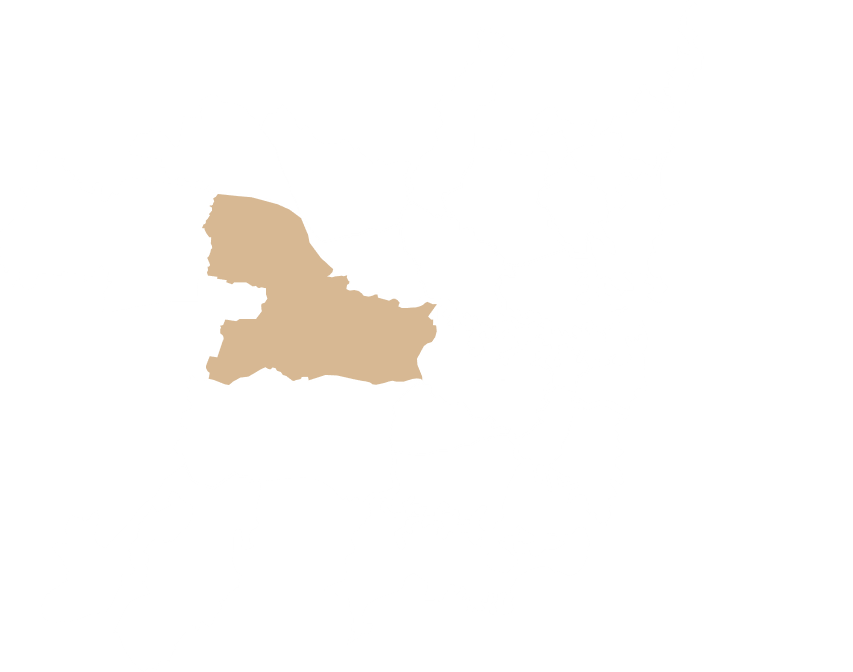
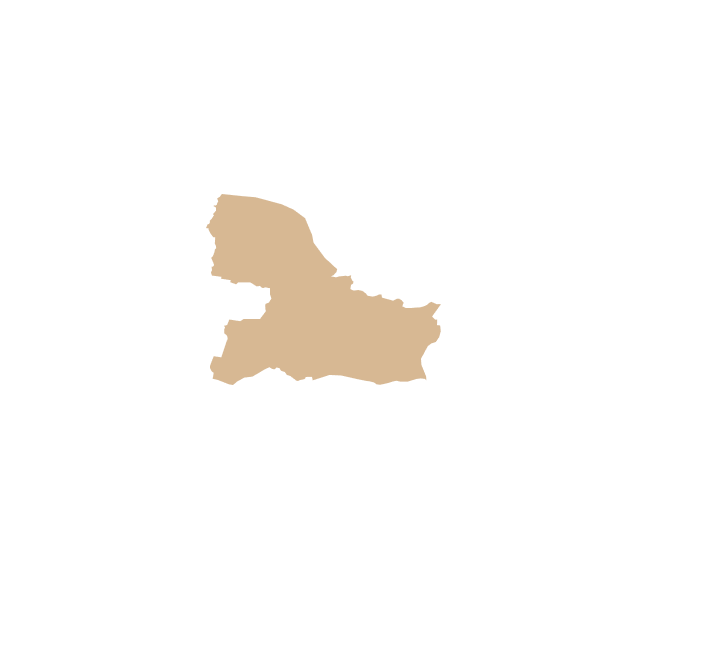
Changes

Changed region(s): [[0.2175, 0.2812, 0.6215, 0.5938]]

diff --git a/src/components/sections/homepage/GalaBanner.jsx b/src/components/sections/homepage/GalaBanner.jsx
@@ -1,0 +1,63 @@
+import { motion } from "framer-motion"
+import { Link } from "react-router-dom"
+
+function Quatrefoil({ size = 12 }) {
+  return (
+    <svg
+      width={size}
+      height={size}
+      viewBox="0 0 100 100"
+      fill="currentColor"
+      className="flex-shrink-0 opacity-90"
+      aria-hidden="true"
+    >
+      <circle cx="50" cy="22" r="25" />
+      <circle cx="50" cy="78" r="25" />
+      <circle cx="22" cy="50" r="25" />
+      <circle cx="78" cy="50" r="25" />
+      <rect x="22" y="22" width="56" height="56" rx="4" />
+    </svg>
+  )
+}
+
+const SEGMENTS = ["MIAA Gala Dinner", "25 July 2026", "Book your tickets here"]
+
+// One repeating unit: each segment preceded by a quatrefoil separator
+function MarqueeUnit() {
+  return (
+    <div className="flex items-center" aria-hidden="true">
+      {SEGMENTS.map((text) => (
+        <span key={text} className="flex items-center">
+          <span className="mx-5 md:mx-7 3xl:mx-9">
+            <Quatrefoil />
+          </span>
+          <span className="font-aeonik text-[24px] md:text-[40px] font-medium tracking-wide whitespace-nowrap">
+            {text}
+          </span>
+        </span>
+      ))}
+    </div>
+  )
+}
+
+export default function GalaBanner() {
+  return (
+    <Link
+      to="/gala-dinner"
+      aria-label="MIAA Gala Dinner, 25 July 2026 — book your tickets"
+      style={{ backgroundColor: "#4656cd" }}
+      className="group block w-full overflow-hidden text-white transition-[filter] duration-200 hover:brightness-110"
+    >
+      <motion.div
+        className="flex w-max items-center py-3 md:py-3.5 3xl:py-4"
+        animate={{ x: ["0%", "-50%"] }}
+        transition={{ duration: 58, ease: "linear", repeat: Infinity }}
+      >
+        {/* Two identical halves so the loop wraps seamlessly */}
+        {Array.from({ length: 8 }).map((_, i) => (
+          <MarqueeUnit key={i} />
+        ))}
+      </motion.div>
+    </Link>
+  )
+}

diff --git a/src/components/sections/about/WesternSydneySection.jsx b/src/components/sections/about/WesternSydneySection.jsx
@@ -1,6 +1,31 @@
 import { motion } from "framer-motion"
 import { fadeInLeft, fadeInRight } from "../../../lib/motion"
 import sydneyMap from "../../../assets/images/About/sydney.png"
+import sydneyMapWithout from "../../../assets/images/About/sydney_without.png"
+
+// The "without" map shows first; then the full map (with the extra state)
+// slowly fades in on top when the section scrolls into view.
+function MapCrossfade({ className = "" }) {
+  return (
+    <div className={`relative ${className}`}>
+      <img
+        src={sydneyMapWithout}
+        alt="Map silhouette of Western Sydney"
+        className="w-full h-auto object-contain"
+      />
+      <motion.img
+        src={sydneyMap}
+        alt=""
+        aria-hidden="true"
+        className="absolute inset-0 w-full h-full object-contain"
+        initial={{ opacity: 0 }}
+        whileInView={{ opacity: 1 }}
+        viewport={{ once: true, margin: "-120px" }}
+        transition={{ duration: 2.2, ease: "easeInOut", delay: 0.4 }}
+      />
+    </div>
+  )
+}
 
 function QuatrefoilMarker({ size = 11 }) {
   return (
@@ -47,20 +72,12 @@ export default function WesternSydneySection() {
           {...fadeInLeft}
           className="hidden lg:flex absolute left-0 top-0 bottom-0 w-[55%] items-center justify-start pointer-events-none"
         >
-          <img
-            src={sydneyMap}
-            alt="Map silhouette of Western Sydney"
-            className="w-full h-auto object-contain -ml-[3%]"
-          />
+          <MapCrossfade className="w-full -ml-[3%]" />
         </motion.div>
 
         {/* Mobile/tablet — map above content, normal flow */}
         <div className="lg:hidden mb-8 flex justify-center">
-          <img
-            src={sydneyMap}
-            alt="Map silhouette of Western Sydney"
-            className="w-full max-w-sm h-auto object-contain"
-          />
+          <MapCrossfade className="w-full max-w-sm" />
         </div>
 
         {/* Right content — pushed right on lg so map overlaps slightly */}

diff --git a/src/components/sections/about/StrategicDirectionSection.jsx b/src/components/sections/about/StrategicDirectionSection.jsx
@@ -6,6 +6,7 @@ import ic1 from "../../../assets/images/About/ic1.png"
 import ic2 from "../../../assets/images/About/ic2.png"
 import ic4 from "../../../assets/images/About/ic4.png"
 import ix3 from "../../../assets/images/About/ix3.png"
+import ic5 from "../../../assets/images/About/ic5.png"
 
 const PILLARS = [
   {
@@ -32,6 +33,12 @@ const PILLARS = [
     body:
       "Collect, preserve and display art and cultural material that reflects the diverse experiences and expressions of Islamic art and culture both here and abroad.",
   },
+  {
+    icon: ic5,
+    title: "Education & Research",
+    body:
+      "Collect, preserve and display art and cultural material that reflects the diverse experiences and expressions of Islamic art and culture both here and abroad."
+  }
 ]
 
 function QuatrefoilMarker({ size = 11 }) {
@@ -129,9 +136,6 @@ export default function StrategicDirectionSection() {
               className="bg-bg-teal/25 border border-accent-wheat/15 p-6 3xl:p-8 flex flex-col gap-4 flex-shrink-0 w-[260px] md:w-[18.75rem] lg:w-0 lg:flex-1 hover:bg-bg-teal/40 transition-colors duration-300"
             >
               <img src={pillar.icon} alt="" className="w-10 h-10 3xl:w-14 3xl:h-14 object-contain" />
-              <h3 className="text-accent-cream font-semibold text-[0.9375rem] md:text-base 3xl:text-lg leading-tight">
-                {pillar.title}
-              </h3>
               <p className="text-accent-cream/75 text-[0.8125rem] 3xl:text-base leading-relaxed">
                 {pillar.body}
               </p>

diff --git a/src/components/sections/galadinner/GalaEventDetailsSection.jsx b/src/components/sections/galadinner/GalaEventDetailsSection.jsx
@@ -110,7 +110,14 @@ export default function GalaEventDetailsSection() {
               </p>
             </div>
             <div className="mt-6">
-              <CTAButton to="/gala-dinner/tickets" className="px-6">Buy Ticket</CTAButton>
+              <CTAButton
+                href="https://tickets.miaaustralia.org/checkout/view-event/id/8327602/chk/17d4/"
+                target="_blank"
+                rel="noopener noreferrer"
+                className="px-6"
+              >
+                Buy Ticket
+              </CTAButton>
             </div>
           </motion.div>
         </div>

diff --git a/src/components/sections/galadinner/GalaHeroSection.jsx b/src/components/sections/galadinner/GalaHeroSection.jsx
@@ -51,7 +51,14 @@ export default function GalaHeroSection() {
             transition={{ duration: 0.6, delay: 1, ease: [0.25, 0.1, 0.25, 1] }}
             className="mt-6 md:mt-8 mb-8 md:mb-12"
           >
-            <CTAButton to="/gala-dinner/tickets" className="px-6">Buy Ticket</CTAButton>
+            <CTAButton
+              href="https://tickets.miaaustralia.org/checkout/view-event/id/8327602/chk/17d4/"
+              target="_blank"
+              rel="noopener noreferrer"
+              className="px-6"
+            >
+              Buy Ticket
+            </CTAButton>
           </motion.div>
         </div>
       </div>

diff --git a/src/components/layout/Footer.jsx b/src/components/layout/Footer.jsx
@@ -147,9 +147,12 @@ export default function Footer() {
             backgroundSize: "700px",
             backgroundRepeat: "repeat",
             backgroundPosition: "center",
+            WebkitMaskImage:
+              "linear-gradient(to bottom, #000 0%, #000 40%, transparent 100%)",
+            maskImage:
+              "linear-gradient(to bottom, #000 0%, #000 40%, transparent 100%)",
           }}
         />
-        <div className="absolute inset-x-0 bottom-0 h-8 bg-gradient-to-b from-transparent to-accent-cream" />
         <motion.div {...fadeInUp} className="relative z-10 w-full px-6 md:px-10 lg:px-16 3xl:px-24 pt-10 pb-10 text-center">
           <div className="text-sm md:text-[0.9375rem] 3xl:text-base leading-[1.8] text-primary italic max-w-3xl 3xl:max-w-4xl mx-auto">
             <p className="font-medium">MIAA is proudly located on beautiful Dharug country in Granville, Western Sydney.</p>

diff --git a/src/components/sections/homepage/HeroSection.jsx b/src/components/sections/homepage/HeroSection.jsx
@@ -6,6 +6,7 @@ import { ScrollTrigger } from "gsap/ScrollTrigger"
 import heroImg from "../../../assets/images/Homepage/Hero.png"
 import ornament from "../../../assets/images/Homepage/Ornament_1.png"
 import heroTopRight from "../../../assets/images/Homepage/herotoprightelement.png"
+import GalaBanner from "./GalaBanner"
 
 gsap.registerPlugin(ScrollTrigger)
 
@@ -103,6 +104,9 @@ export default function HeroSection() {
           />
         </motion.div>
       </div>
+
+      {/* Scrolling Gala Dinner banner — bottom of hero */}
+      <GalaBanner />
     </section>
   )
 }

diff --git a/src/components/sections/galadinner/GalaIntroSection.jsx b/src/components/sections/galadinner/GalaIntroSection.jsx
@@ -24,7 +24,7 @@ export default function GalaIntroSection() {
           {/* Left — Text content */}
           <motion.div {...fadeInLeft} className="flex-1">
             <h2 className="font-display text-2xl md:text-3xl 3xl:text-[3.2rem] font-medium text-primary leading-tight tracking-wide mb-6 uppercase">
-              From Vision to Reality<br />Architectural Design Reveal
+              From Vision to Reality:<br />Architectural Design Reveal
             </h2>
             <div className="flex flex-col gap-4 text-base 3xl:text-xl text-primary leading-relaxed font-medium tracking-wide max-w-[31.25rem]">
               <p>